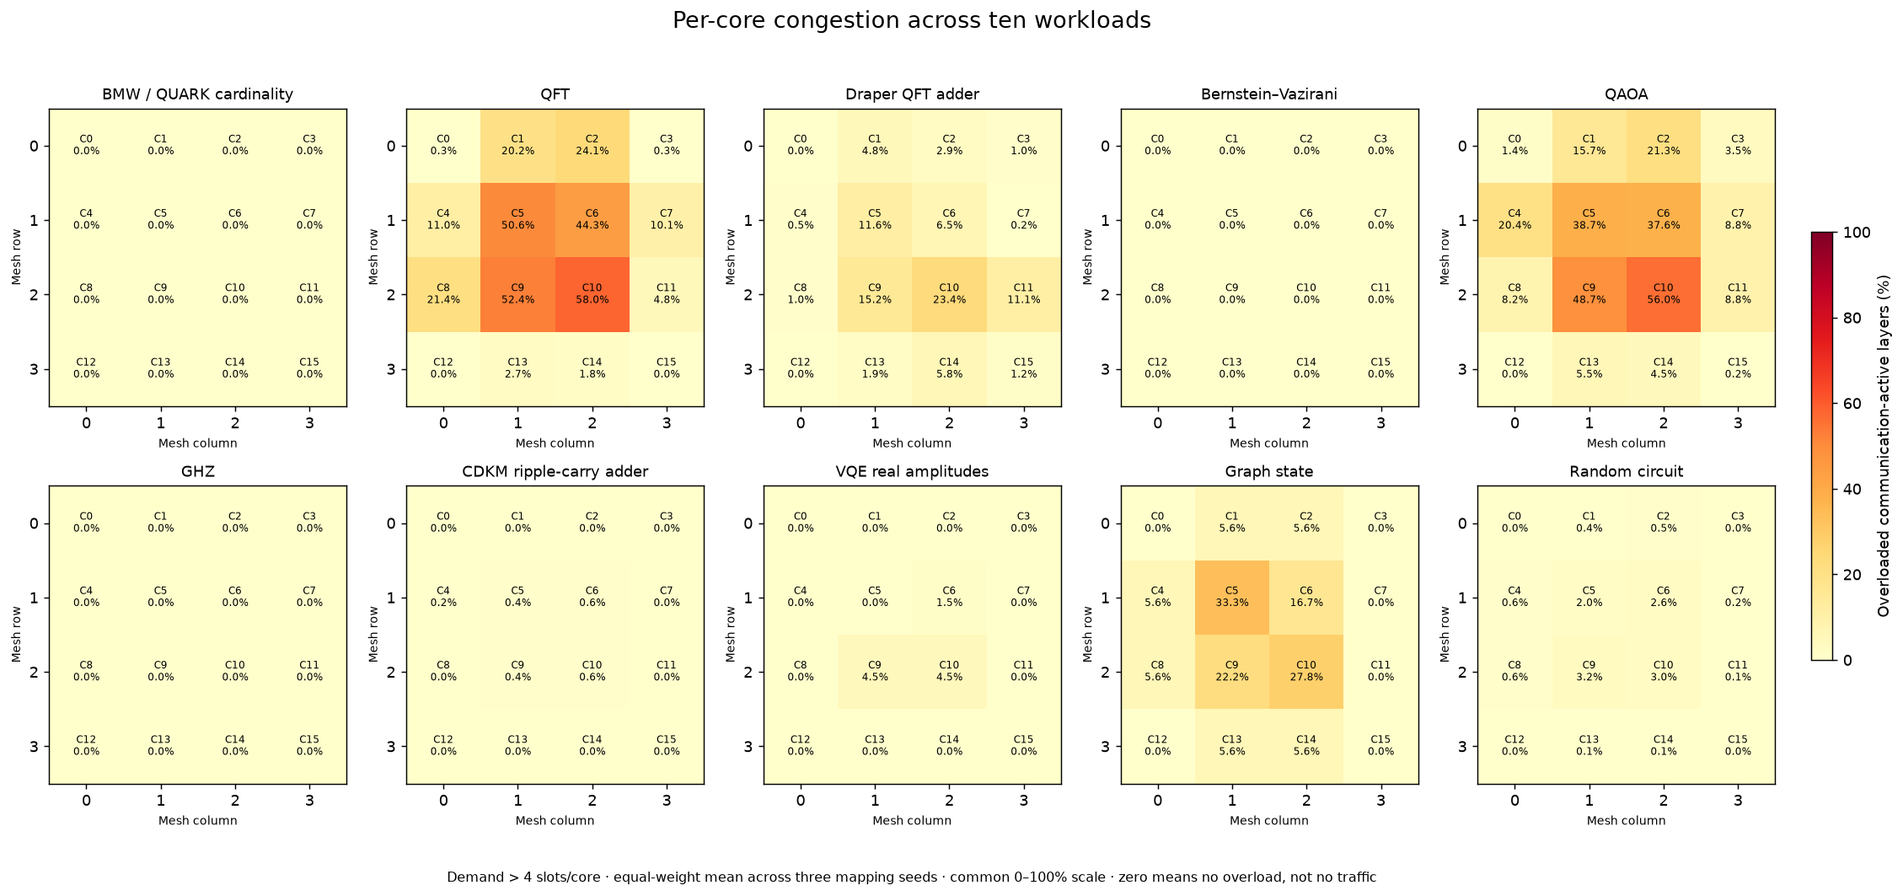
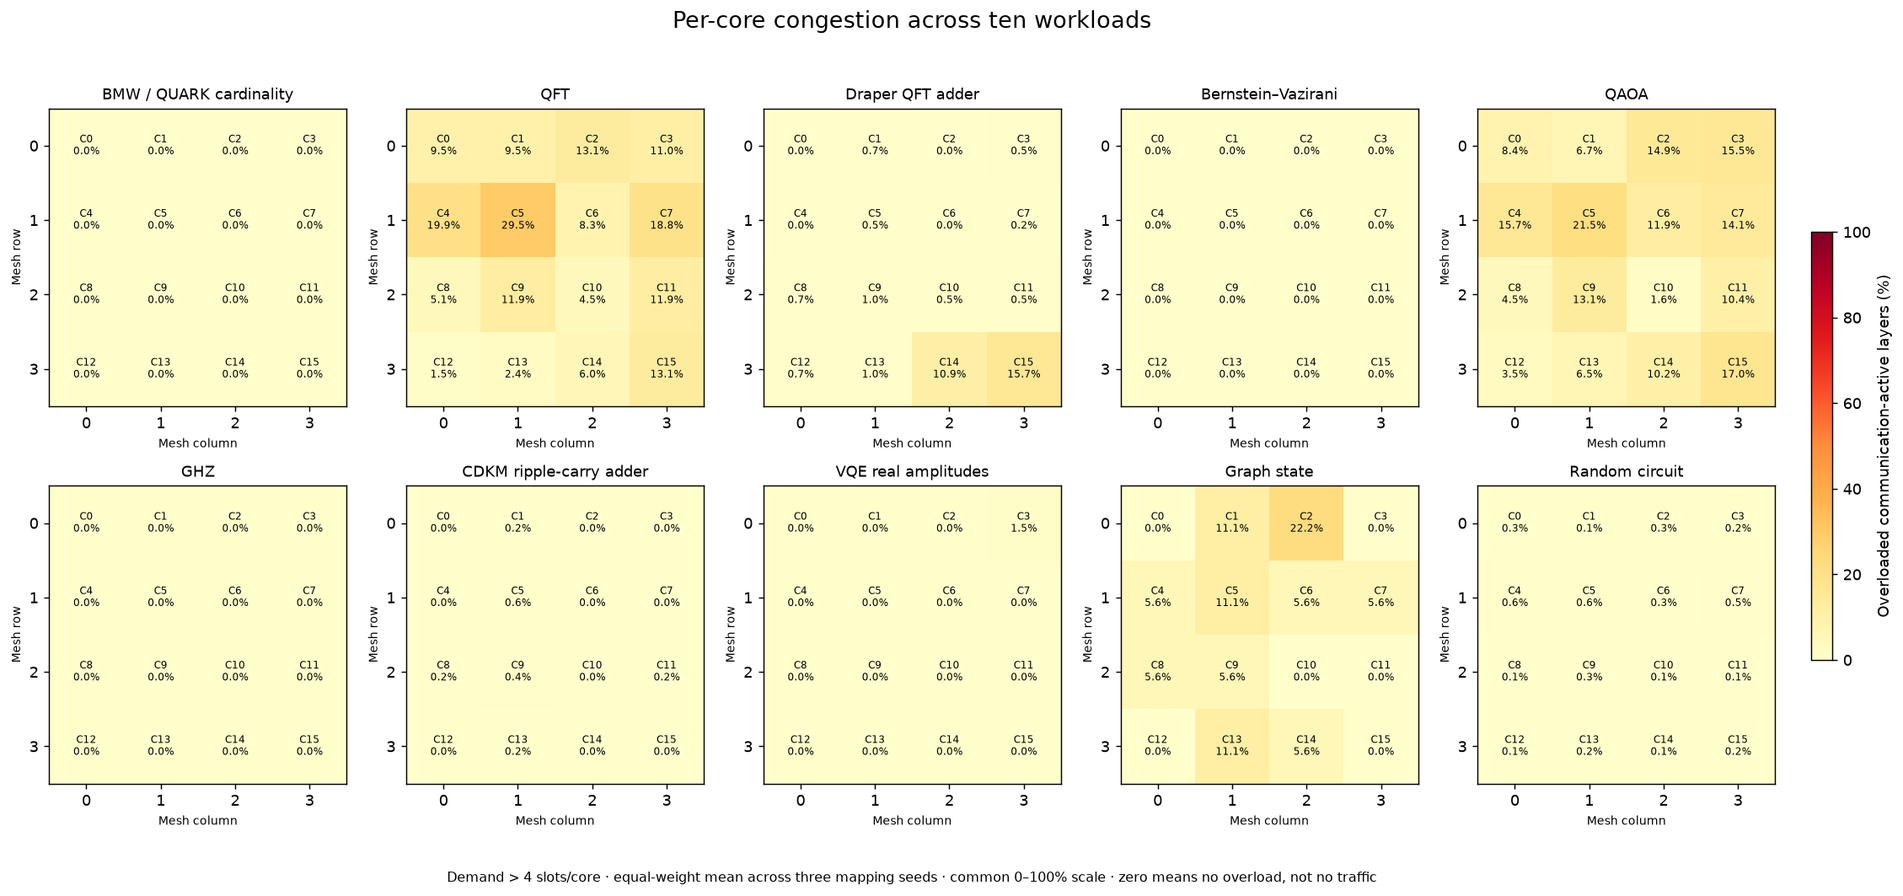
[report] - Routing, torus and run-times chapters; offline-routing report generator; cut-off mechanism data

diff --git a/tools/routing_research/make_report.py b/tools/routing_research/make_report.py
@@ -1,0 +1,121 @@
+#!/usr/bin/env python3
+"""Write docs/reports/offline-routing-research.md and the LaTeX tables from the committed offline-routing results."""
+from __future__ import annotations
+
+import csv
+import statistics as st
+import sys
+from collections import Counter, defaultdict
+from pathlib import Path
+
+REPO = Path(__file__).resolve().parents[2]
+R = REPO / "results" / "offline_routing_2026-10-24"
+GEN = REPO / "docs" / "latex" / "ace_report" / "generated"
+NAMES = {"ghz": "GHZ", "bv": "Bernstein-Vazirani", "bmw_quark_cardinality": "BMW/QUARK cardinality", "vqe_real_amp": "VQE real amplitudes",
+         "cdkm_ripple_carry_adder": "CDKM ripple-carry adder", "graphstate": "Graph state", "draper_qft_adder": "Draper QFT adder",
+         "qaoa": "QAOA", "qft": "QFT", "randomcircuit": "Random circuit"}
+ORDER = list(NAMES)
+
+
+def load(p):
+    with open(p, newline="", encoding="utf-8") as h:
+        return list(csv.DictReader(h))
+
+
+def pooled(rows, variant):
+    agg = defaultdict(Counter)
+    for r in rows:
+        if r["variant"] == variant:
+            k = (int(r["capacity"]), int(r["extra_hops"]))
+            for f in ("baseline_excess", "optimised_excess", "best_lower_bound", "baseline_overloaded_layers", "optimised_overloaded_layers",
+                      "added_hops", "total_hops", "layers_not_proved_optimal"):
+                agg[k][f] += int(r[f])
+    return agg
+
+
+def md(header, rows):
+    return "\n".join(["| " + " | ".join(header) + " |", "|" + "---|" * len(header)] + ["| " + " | ".join(r) + " |" for r in rows])
+
+
+def structural_rows(agg):
+    out = []
+    for (cap, extra), a in sorted(agg.items()):
+        red = 100 * (1 - a["optimised_excess"] / a["baseline_excess"]) if a["baseline_excess"] else 0.0
+        out.append([str(cap), str(extra), f"{a['baseline_excess']}", f"{a['optimised_excess']} ({red:.1f}%)", f"{a['best_lower_bound']}",
+                    f"{a['baseline_overloaded_layers']} → {a['optimised_overloaded_layers']}", f"{100 * a['added_hops'] / a['total_hops']:.2f}%"])
+    return out
+
+
+def paired(sim_path):
+    rows = load(sim_path)
+    d = {(r["label"], r["mapping_seed"], r["seed"], r["budget"]): r for r in rows}
+    out = {}
+    for w in ["graphstate", "draper_qft_adder", "qaoa", "qft", "randomcircuit"]:
+        for b in ("2", "3", "4"):
+            cells = {}
+            for extra in (0, 2):
+                ch, lat, wait = [], [], []
+                for ms in ("42", "43", "44"):
+                    for s in ("0", "1", "2"):
+                        o = d[(w, ms, s, b)]
+                        n = d[(f"{w}__c{b}_e{extra}", ms, s, b)]
+                        ch.append(100 * (float(o["latency_ms"]) - float(n["latency_ms"])) / float(o["latency_ms"]))
+                        lat.append(float(n["latency_ms"]))
+                        wait.append(float(n["waited_fraction"]))
+                cells[extra] = (st.fmean(ch), st.stdev(ch), sum(c > 0 for c in ch), st.fmean(lat), st.fmean(wait))
+            base = [float(d[(w, ms, s, b)]["latency_ms"]) for ms in ("42", "43", "44") for s in ("0", "1", "2")]
+            basew = [float(d[(w, ms, s, b)]["waited_fraction"]) for ms in ("42", "43", "44") for s in ("0", "1", "2")]
+            out[(w, b)] = (st.fmean(base), st.fmean(basew), cells)
+    return out
+
+
+def sim_rows(p):
+    rows = []
+    for (w, b), (base, basew, cells) in p.items():
+        c0, c2 = cells[0], cells[2]
+        rows.append([NAMES[w], b, f"{base:.2f}", f"{c0[3]:.2f} ({c0[0]:+.1f}% ±{c0[1]:.1f}; {c0[2]}/9)", f"{c2[3]:.2f} ({c2[0]:+.1f}% ±{c2[1]:.1f}; {c2[2]}/9)",
+                     f"{basew:.3f} → {c0[4]:.3f}"])
+    return rows
+
+
+def main() -> int:
+    mesh, torus = load(R / "mesh" / "study.csv"), load(R / "torus" / "study.csv")
+    head = ["Capacity", "Extra hops", "Excess now", "Excess after re-routing", "Lower bound", "Overloaded layers", "Added hops"]
+    sections = ["# Can offline routing reduce the congestion?", "",
+                "Mapping held fixed; only the path of each qubit move is re-chosen, per layer, offline (exact optimisation, global knowledge of the layer). "
+                "*Excess* is the demand above capacity, summed over cores and layers. All numbers pool the ten benchmarks and the three mapping seeds; "
+                "data in `results/offline_routing_2026-10-24/`, code in `tools/routing_research/`.", "",
+                "**What is proved.** The optimiser is exact (no layer was left unproved), never worse than the mapper's own routes, and bounded below by two valid lower bounds: "
+                "endpoint demand alone, and total demand minus cores x capacity. No routing can beat the larger of the two.", ""]
+    for name, rows in (("mesh", mesh), ("torus", torus)):
+        for variant, label in (("route", "route counting (qubits in flight, what the per-qubit scheduler sees)"), ("hop", "hop counting (the archive's counting)")):
+            sections += [f"## Structural result, {name}, {label}", "", md(head, structural_rows(pooled(rows, variant))), ""]
+    sims = [("mesh", R / "mesh" / "simulated.csv")]
+    if (R / "torus" / "simulated.csv").exists():
+        sims.append(("torus", R / "torus" / "simulated.csv"))
+    for name, path in sims:
+        sections += [f"## Simulated effect on latency, {name} (on-demand, same mapping, endpoints and seeds)", "",
+                     "Latency in ms, mean of nine runs. In brackets: paired reduction against the original routes (positive = faster), its standard deviation over the nine pairs, "
+                     "and the number of pairs in which re-routing was faster. Last column: fraction of requests that waited, original → re-routed (no extra hops).", "",
+                     md(["Workload", "Memories", "Original routes", "Re-routed, shortest paths only", "Re-routed, up to +2 hops", "Waited"], sim_rows(paired(path))), ""]
+    (REPO / "docs" / "reports" / "offline-routing-research.md").write_text("\n".join(sections) + "\n", encoding="utf-8")
+    # LaTeX
+    def tex_table(name, header, rows, caption, label, colspec):
+        lines = [r"\begin{table}[H]", r"\centering\small", rf"\begin{{tabular}}{{@{{}}{colspec}@{{}}}}", r"\toprule", " & ".join(header) + r" \\", r"\midrule"]
+        lines += [" & ".join(c.replace("%", r"\%").replace("→", r"$\to$").replace("±", r"$\pm$").replace("&", r"\&") for c in r) + r" \\" for r in rows]
+        lines += [r"\bottomrule", r"\end{tabular}", rf"\caption{{{caption}}}", rf"\label{{{label}}}", r"\end{table}"]
+        (GEN / name).write_text("\n".join(lines) + "\n", encoding="utf-8")
+    GEN.mkdir(parents=True, exist_ok=True)
+    for topo, rows in (("mesh", mesh), ("torus", torus)):
+        tex_table(f"routing_struct_{topo}.tex", head, structural_rows(pooled(rows, "route")),
+                  f"Offline re-routing, {topo}, route counting, pooled over ten benchmarks and three mapping seeds. Excess is demand above capacity.", f"tab:routing-{topo}", "rrrrrrr")
+    for name, path in sims:
+        tex_table(f"routing_sim_{name}.tex", ["Workload", "Mem.", "Original", "Re-routed", "+2 hops", "Waited"], sim_rows(paired(path)),
+                  f"Simulated on-demand latency (ms), {name}: original routes against offline re-routing. Brackets: paired reduction, sd, pairs faster of nine.",
+                  f"tab:routing-sim-{name}", "lrrrrr")
+    print("wrote docs/reports/offline-routing-research.md and LaTeX tables")
+    return 0
+
+
+if __name__ == "__main__":
+    sys.exit(main())

diff --git a/docs/latex/ace_report/chapters/08_routing.tex b/docs/latex/ace_report/chapters/08_routing.tex
@@ -1,0 +1,41 @@
+\chapter{Can offline routing reduce the congestion?}
+\label{ch:routing}
+
+Experiment~2 (Chapter~\ref{ch:heatmap}) showed that at the modelled capacity of four memories nearly all overload is relay overload: it is caused by routes passing through the
+central cores, not by routes starting or ending there. That raises a question about the routes. The mapper chooses, for every qubit move, one Dijkstra shortest path (fewest hops, link
+reliability as the tie-break), without looking at what the other moves of the layer are doing. Many alternative shortest paths exist: between opposite corners of the $4\times4$ mesh there are
+$\binom{6}{3}=20$. Could choosing them \emph{offline}, with the mapping untouched, spread the relay load and reduce the congestion?
+
+\section{Method}
+The mapping is held fixed: every qubit still moves from the same core to the same core in the same layer. Only the path of each move (a \emph{route}) is re-chosen, layer by layer
+(layers are independent because a layer's routes start and end at fixed cores). For each layer that has any overload, the choice of one candidate path per route is made by solving a small
+mixed-integer program exactly, minimising the \emph{excess}, the demand above capacity summed over cores. The candidates are all simple paths of at most the shortest length plus $0$ or $2$ hops,
+and the mapper's own path is always a candidate, so the result is never worse than the baseline.
+
+Two lower bounds hold for \emph{any} routing, so they show how much is left to gain. Endpoints do not depend on the path, so the demand of a core is at least its endpoint demand; and a route of shortest
+length $k$ puts at least $2k$ hop touches ($k+1$ route touches) on the cores, so the total excess is at least the minimum total demand minus (cores $\times$ capacity). Both are tested.
+
+Demand is counted two ways: by hops (the archive's counting) and by routes, the number of qubits in flight through a core, which is what the per-qubit scheduler experiences.
+
+\section{Structural result}
+\input{generated/routing_struct_mesh}
+Pooled over the ten benchmarks, the best routing removes most of the excess at the modelled capacity: with route counting at capacity four, shortest paths alone cut the excess from 2\,216 to 348 (a 84.3\% reduction)
+and the layers with any overload from 482 to 102; allowing two extra hops cuts it to 237 (89.3\%) at a cost of 0.36\% more hops. The gain shrinks as the capacity shrinks (19.0\% at capacity one),
+because there the total relay volume, not the choice of path, is the limit, which the volume bound shows. With hop counting the reductions are smaller (65.6\% at capacity four).
+
+\section{Simulated effect}
+The structural gain would be an artefact if it did not survive the simulator, so the re-routed traces were run in ACE next to the original routes, on-demand, at the budget they were optimised for, with the same
+mapping, endpoints, physics seeds and parameters. Three mapping seeds and three physics seeds give nine paired runs per cell.
+\input{generated/routing_sim_mesh}
+Re-routing alone makes on-demand requests faster in nearly every pair. At two memories the latency falls by 26\% to 42\% on the congested workloads; at the modelled four memories by 25\% for QFT, 11\% for QAOA and 6\% for graph state,
+and by 1\% or less where there was little congestion. The fraction of requests that had to wait falls accordingly. Two extra hops help at two memories (QFT 26\% to 36\%) but not at four, where the added hop count costs about as much as it saves.
+
+\section{The torus}
+On the torus, which has more paths between cores, the optimum is closer to the lower bound still.
+\input{generated/routing_struct_torus}
+
+\section{What can and cannot be concluded}
+Offline routing \emph{can} reduce congestion: with the mapping fixed, an exact offline choice of paths removes most of the excess demand at the modelled capacity and the simulated latencies fall with it. These
+are results for an offline optimum with global knowledge of every layer, computed per layer for the capacity the hardware has; a practical routing algorithm would be a heuristic for the same problem and would be bounded by it.
+Not shown here: the effect on pre-generation policies (only on-demand was simulated), joint optimisation of mapping and routing, fidelity effects (the on-demand fidelity does not depend on waiting), and a routing policy that does not know
+the layer in advance. Whether to pursue the research further is therefore a question about those directions, and the bounds above say how much headroom each could have.

diff --git a/docs/latex/ace_report/chapters/09_torus.tex b/docs/latex/ace_report/chapters/09_torus.tex
@@ -1,0 +1,23 @@
+\chapter{The torus topology}
+\label{ch:torus}
+
+\section{What changes}
+A $4\times4$ torus joins the opposite edges of the mesh with eight extra links, so every core has four neighbours and the longest path shrinks from six hops to four. Everything else is held as in the
+mesh experiments: the same ten benchmarks, the same mapper (HQA) with the same seeds, the same ACE parameters, the same link length for every link (a folded layout; the wrap links are not longer),
+the same scheduler, budgets, policies, physics seeds and controls.
+
+\paragraph{Routing.} The routes are the mapper's own: a Dijkstra search for the path with the fewest hops, with the product of link reliabilities as the tie-break (route model \code{shortest}), exactly as for the mesh
+traces. The mapping-only path of the study script was checked to reproduce the archived mesh trace line for line before it was used for the torus. ACE itself needed three changes: trace validation
+knows wrap-around links; the topology file is generated from the mesh file by adding the eight wrap links in the mesh's own link format (every router then has four quantum links, tested by loading it in ACE);
+and a torus trace is refused on a mesh topology file and the reverse.
+
+\paragraph{One caveat.} The mapper is run on the torus graph, so the torus traces differ from the mesh traces in the placement as well as the routes. Differences below are differences of the two systems, not of the topology alone.
+
+\section{Results}
+Torus traces need 11\% to 37\% fewer hops than the mesh traces (CDKM 11\%, QFT 23\%, QAOA 16\%, GHZ 25\%, VQE 37\%). Every control passed on all 1\,368 runs, as for the mesh (Chapter~\ref{ch:exp1}).
+\input{generated/torus_comparison}
+On-demand latency under congestion improves: at two memories QFT goes from $4.72$ to $2.79$\,ms, QAOA from $3.42$ to $2.47$\,ms and graph state from $2.72$ to $1.86$\,ms; at four memories QFT from $1.59$ to $1.21$\,ms. Dynamic pre-generation
+catches on-demand earlier (QFT at eight memories: $2.78$ to $1.16$\,ms). The structural overload at capacity four falls for most workloads (QFT 65.2\% to 58.0\%, QAOA 71.6\% to 57.9\%, Draper 41.3\% to 25.8\%) but not for graph state, where
+it rises from 33.3\% to 38.9\% (only six layers are active, so a single layer is 17 percentage points). Draper at two memories is slightly slower on the torus ($2.16$ to $2.25$\,ms).
+
+\input{generated/fig_heatmap_torus}

diff --git a/tools/latex/make_tables.py b/tools/latex/make_tables.py
@@ -127,6 +127,27 @@ def exp1_tables(skipped: list[str]) -> None:
         r"  \item " + tex(l).replace("--", "---") for l in (main / "controls.txt").read_text(encoding="utf-8").strip().splitlines()) + "\n" + r"\end{itemize}" + "\n")
 
 
+def torus_tables(skipped: list[str]) -> None:
+    path = RESULTS / "mesh_vs_torus_2026-10-24" / "comparison.csv"
+    if not path.exists():
+        skipped.append("torus")
+        return
+    rows = load(path)
+    f = lambda x, d=2: "--" if x in ("", None) else f"{float(x):.{d}f}"
+    body = []
+    for r in rows:
+        w = r["workload"]
+        body.append([NAMES[w], f"{float(r['hops_mesh']):.0f}/{float(r['hops_torus']):.0f}",
+                     f"{float(r['overload_c4_mesh']):.1f}/{float(r['overload_c4_torus']):.1f}",
+                     f"{f(r['ondemand_latency_b2_mesh'])}/{f(r['ondemand_latency_b2_torus'])}",
+                     f"{f(r['ondemand_latency_b4_mesh'])}/{f(r['ondemand_latency_b4_torus'])}",
+                     f"{f(r['dynamic_latency_b8_mesh'])}/{f(r['dynamic_latency_b8_torus'])}"])
+    table(GEN / "torus_comparison.tex", ["Workload", "Hops", "Overload\\% at C=4", "On-demand ms, 2 mem.", "On-demand ms, 4 mem.", "Dynamic ms, 8 mem."], body,
+          "Mesh/torus. Hops: mean requests per trace. Overload: \\% of active layers with any core above capacity 4. Latencies are means over nine runs.", "tab:torus", "lrrrrr")
+    figure("fig_heatmap_torus.tex", RESULTS / "heatmap_torus_2026-10-24" / "per_core_congestion.png",
+           "Per-core congestion on the torus (percentage of active layers in which a core's demand exceeds 4 slots; mean over three mapping seeds).", "fig:heatmap-torus")
+
+
 def parameter_tables(skipped: list[str]) -> None:
     path = RESULTS / "experiment1_ten_benchmarks_2026-10-24" / "run_parameters.json"
     if not path.exists():
@@ -168,6 +189,7 @@ def main() -> int:
     heatmap_tables(skipped)
     exp2_tables(skipped)
     exp1_tables(skipped)
+    torus_tables(skipped)
     parameter_tables(skipped)
     print("wrote", len(list(GEN.glob("*.tex"))), "generated files;", "skipped:", skipped or "none")
     return 0

diff --git a/docs/latex/ace_report/chapters/10_runtimes.tex b/docs/latex/ace_report/chapters/10_runtimes.tex
@@ -1,0 +1,9 @@
+\chapter{Run times}
+\label{ch:runtimes}
+
+Wall-clock times on the development machine (8 CPUs). An \emph{invocation} is one process running one benchmark at one budget and policy for three physics seeds.
+Times from parallel runs include contention from the other jobs; the serial pass was run one invocation at a time and is the clean per-benchmark measurement.
+\input{generated/runtimes_total}
+\input{generated/runtimes_serial}
+The heatmap regeneration takes 2.7\,s and the endpoint-versus-relay split 4.3\,s. The new scheduler costs a few percent more real time than the legacy one on the larger traces, because it reads the
+reservation tables at admission. Real time is unrelated to the simulated latencies the experiments report. The full set of numbers, including parallel per-benchmark sums, is in \code{docs/reports/run-times.md}.

diff --git a/docs/reports/offline-routing-research.md b/docs/reports/offline-routing-research.md
@@ -1,0 +1,80 @@
+# Can offline routing reduce the congestion?
+
+Mapping held fixed; only the path of each qubit move is re-chosen, per layer, offline (exact optimisation, global knowledge of the layer). *Excess* is the demand above capacity, summed over cores and layers. All numbers pool the ten benchmarks and the three mapping seeds; data in `results/offline_routing_2026-10-24/`, code in `tools/routing_research/`.
+
+**What is proved.** The optimiser is exact (no layer was left unproved), never worse than the mapper's own routes, and bounded below by two valid lower bounds: endpoint demand alone, and total demand minus cores x capacity. No routing can beat the larger of the two.
+
+## Structural result, mesh, route counting (qubits in flight, what the per-qubit scheduler sees)
+
+| Capacity | Extra hops | Excess now | Excess after re-routing | Lower bound | Overloaded layers | Added hops |
+|---|---|---|---|---|---|---|
+| 1 | 0 | 27043 | 21894 (19.0%) | 18336 | 4110 → 3801 | 0.00% |
+| 1 | 2 | 27043 | 21018 (22.3%) | 18336 | 4110 → 3621 | 2.55% |
+| 2 | 0 | 10385 | 6771 (34.8%) | 4995 | 1641 → 978 | 0.00% |
+| 2 | 2 | 10385 | 6288 (39.5%) | 4995 | 1641 → 840 | 1.48% |
+| 3 | 0 | 4774 | 1791 (62.5%) | 846 | 855 → 420 | 0.00% |
+| 3 | 2 | 4774 | 1497 (68.6%) | 846 | 855 → 327 | 0.98% |
+| 4 | 0 | 2216 | 348 (84.3%) | 78 | 482 → 102 | 0.00% |
+| 4 | 2 | 2216 | 237 (89.3%) | 78 | 482 → 48 | 0.36% |
+
+## Structural result, mesh, hop counting (the archive's counting)
+
+| Capacity | Extra hops | Excess now | Excess after re-routing | Lower bound | Overloaded layers | Added hops |
+|---|---|---|---|---|---|---|
+| 1 | 0 | 62272 | 57123 (8.3%) | 34251 | 7965 → 7965 | 0.00% |
+| 1 | 2 | 62272 | 57123 (8.3%) | 34251 | 7965 → 7965 | 0.00% |
+| 2 | 0 | 30251 | 20103 (33.5%) | 14181 | 3427 → 2337 | 0.00% |
+| 2 | 2 | 30251 | 18714 (38.1%) | 14181 | 3427 → 1974 | 3.21% |
+| 3 | 0 | 19118 | 10122 (47.1%) | 6111 | 2660 → 1230 | 0.00% |
+| 3 | 2 | 19118 | 9399 (50.8%) | 6111 | 2660 → 993 | 1.94% |
+| 4 | 0 | 11327 | 3897 (65.6%) | 1728 | 1304 → 513 | 0.00% |
+| 4 | 2 | 11327 | 3411 (69.9%) | 1728 | 1304 → 417 | 1.03% |
+
+## Structural result, torus, route counting (qubits in flight, what the per-qubit scheduler sees)
+
+| Capacity | Extra hops | Excess now | Excess after re-routing | Lower bound | Overloaded layers | Added hops |
+|---|---|---|---|---|---|---|
+| 1 | 0 | 20202 | 15858 (21.5%) | 14847 | 3826 → 3339 | 0.00% |
+| 1 | 2 | 20202 | 15387 (23.8%) | 14847 | 3826 → 3312 | 1.73% |
+| 2 | 0 | 6108 | 3351 (45.1%) | 2847 | 1319 → 702 | 0.00% |
+| 2 | 2 | 6108 | 3108 (49.1%) | 2847 | 1319 → 630 | 0.93% |
+| 3 | 0 | 1852 | 363 (80.4%) | 303 | 562 → 162 | 0.00% |
+| 3 | 2 | 1852 | 342 (81.5%) | 303 | 562 → 159 | 0.09% |
+| 4 | 0 | 493 | 15 (97.0%) | 6 | 220 → 15 | 0.00% |
+| 4 | 2 | 493 | 6 (98.8%) | 6 | 220 → 6 | 0.04% |
+
+## Structural result, torus, hop counting (the archive's counting)
+
+| Capacity | Extra hops | Excess now | Excess after re-routing | Lower bound | Overloaded layers | Added hops |
+|---|---|---|---|---|---|---|
+| 1 | 0 | 44427 | 40083 (9.8%) | 23442 | 7722 → 7722 | 0.00% |
+| 1 | 2 | 44427 | 40083 (9.8%) | 23442 | 7722 → 7722 | 0.00% |
+| 2 | 0 | 17486 | 9630 (44.9%) | 7965 | 2728 → 1134 | 0.00% |
+| 2 | 2 | 17486 | 8988 (48.6%) | 7965 | 2728 → 963 | 1.80% |
+| 3 | 0 | 9250 | 3561 (61.5%) | 2073 | 1875 → 594 | 0.00% |
+| 3 | 2 | 9250 | 3383 (63.4%) | 2073 | 1875 → 510 | 0.74% |
+| 4 | 0 | 4054 | 375 (90.7%) | 216 | 827 → 87 | 0.00% |
+| 4 | 2 | 4054 | 357 (91.2%) | 216 | 827 → 81 | 0.08% |
+
+## Simulated effect on latency, mesh (on-demand, same mapping, endpoints and seeds)
+
+Latency in ms, mean of nine runs. In brackets: paired reduction against the original routes (positive = faster), its standard deviation over the nine pairs, and the number of pairs in which re-routing was faster. Last column: fraction of requests that waited, original → re-routed (no extra hops).
+
+| Workload | Memories | Original routes | Re-routed, shortest paths only | Re-routed, up to +2 hops | Waited |
+|---|---|---|---|---|---|
+| Graph state | 2 | 2.72 | 1.53 (+42.3% ±9.9; 9/9) | 1.41 (+46.6% ±8.9; 9/9) | 0.281 → 0.086 |
+| Graph state | 3 | 1.53 | 1.15 (+22.9% ±11.8; 9/9) | 1.19 (+19.6% ±13.5; 9/9) | 0.121 → 0.000 |
+| Graph state | 4 | 1.24 | 1.16 (+6.0% ±7.6; 7/9) | 1.21 (+1.9% ±8.9; 4/9) | 0.029 → 0.000 |
+| Draper QFT adder | 2 | 2.16 | 1.69 (+21.1% ±7.9; 9/9) | 1.48 (+31.1% ±6.8; 9/9) | 0.211 → 0.115 |
+| Draper QFT adder | 3 | 1.30 | 1.16 (+10.3% ±3.3; 9/9) | 1.16 (+10.5% ±3.7; 9/9) | 0.055 → 0.007 |
+| Draper QFT adder | 4 | 1.15 | 1.13 (+1.3% ±1.3; 8/9) | 1.14 (+1.1% ±0.8; 9/9) | 0.008 → 0.000 |
+| QAOA | 2 | 3.42 | 2.24 (+34.5% ±2.4; 9/9) | 2.12 (+38.0% ±2.4; 9/9) | 0.376 → 0.206 |
+| QAOA | 3 | 1.74 | 1.25 (+28.4% ±2.3; 9/9) | 1.19 (+31.4% ±2.2; 9/9) | 0.172 → 0.037 |
+| QAOA | 4 | 1.27 | 1.13 (+10.9% ±1.7; 9/9) | 1.13 (+11.5% ±1.6; 9/9) | 0.058 → 0.003 |
+| QFT | 2 | 4.72 | 3.49 (+26.1% ±2.4; 9/9) | 3.03 (+35.9% ±2.1; 9/9) | 0.430 → 0.312 |
+| QFT | 3 | 2.39 | 1.53 (+35.9% ±2.2; 9/9) | 1.47 (+38.2% ±2.3; 9/9) | 0.249 → 0.097 |
+| QFT | 4 | 1.59 | 1.19 (+25.2% ±2.4; 9/9) | 1.17 (+26.6% ±2.0; 9/9) | 0.130 → 0.018 |
+| Random circuit | 2 | 1.27 | 1.13 (+10.6% ±1.3; 9/9) | 1.12 (+11.7% ±1.3; 9/9) | 0.042 → 0.007 |
+| Random circuit | 3 | 1.12 | 1.11 (+1.2% ±0.3; 9/9) | 1.11 (+1.3% ±0.3; 9/9) | 0.006 → 0.000 |
+| Random circuit | 4 | 1.11 | 1.11 (+0.2% ±0.1; 9/9) | 1.11 (+0.2% ±0.2; 8/9) | 0.001 → 0.000 |
+
